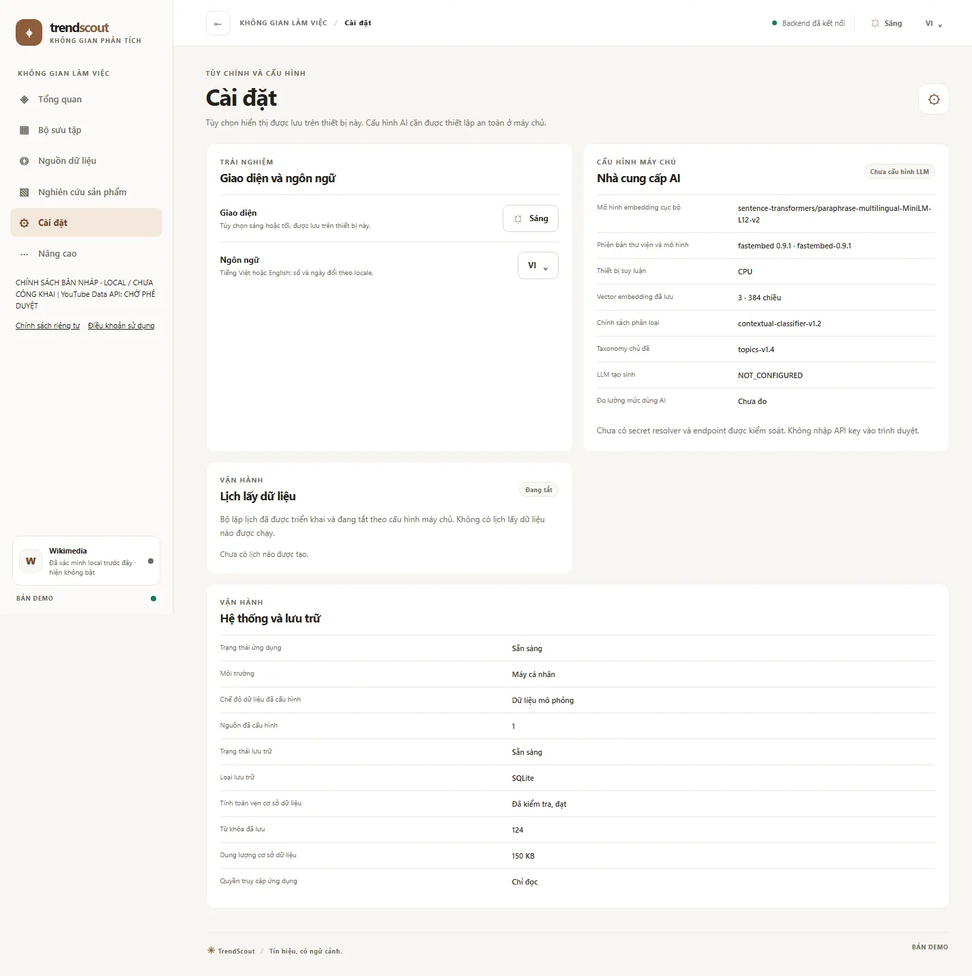
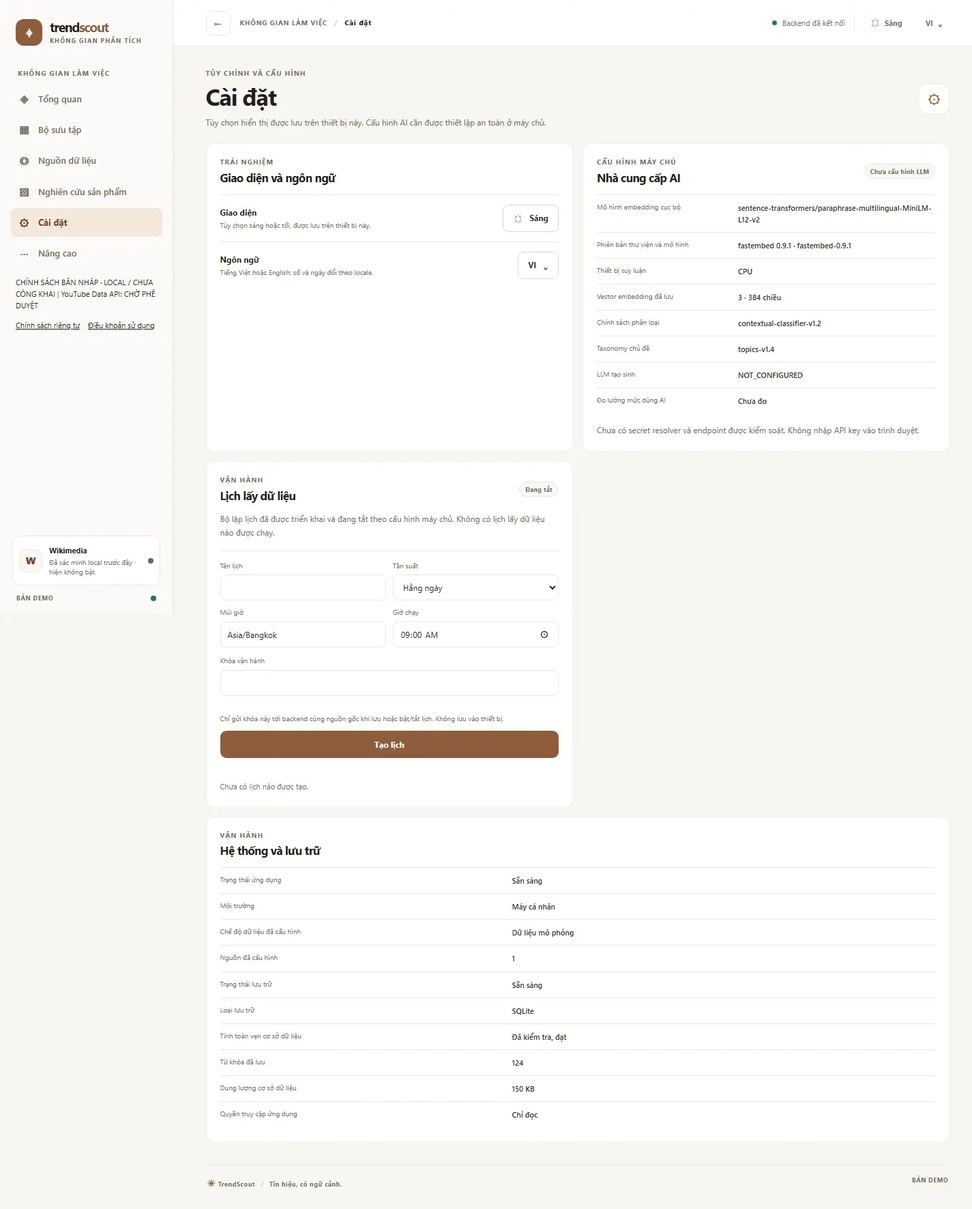
feat(settings): manage protected local fetch schedules

diff --git a/Frontend/public/app.js b/Frontend/public/app.js
@@ -57,6 +57,7 @@ const state = {
   sourceLibrary: [],
   researchKeywords: [],
 };
+let schedulerListSequence = 0;
 state.query = new URLSearchParams(window.location.search).get('q') || '';
 
 function number(value) {
@@ -606,11 +607,16 @@ async function loadRuntimeStatus() {
 
 async function loadSchedulerList() {
   const root=$('#settings-schedules'); if(!root)return;
+  const sequence=++schedulerListSequence;
   root.replaceChildren();
   try {
     const data=await getJson('/api/v1/scheduler');
-    if(!data.items?.length){root.append(element('li',t('settings.scheduler-no-items'),'schedule-empty'));return;}
-    for(const item of data.items){
+    if(sequence!==schedulerListSequence)return;
+    const form=$('#settings-schedule-form');
+    const canToggle=Boolean(data.enabled&&data.worker_running);
+    const items=Array.isArray(data.items)?data.items:[];
+    if(!items.length){root.append(element('li',t('settings.scheduler-no-items'),'schedule-empty'));}
+    for(const item of items){
       const card=element('li',null,'schedule-item');
       const heading=element('div',null,'schedule-item-heading');
       heading.append(element('strong',item.name || t('common.unavailable')),
@@ -619,16 +625,58 @@ async function loadSchedulerList() {
       const values=[
         [t('settings.schedule-frequency'),t(item.frequency==='WEEKLY'?'settings.schedule-weekly':'settings.schedule-daily')],
         [t('settings.schedule-timezone'),item.timezone],
-        [t('settings.schedule-next'),formatScheduleTime(item.next_run_at,item.timezone)],
+        [t('settings.schedule-next'),item.enabled?formatScheduleTime(item.next_run_at,item.timezone):t('settings.schedule-not-enabled')],
         [t('settings.schedule-last'),item.last_run_at?`${formatScheduleTime(item.last_run_at,item.timezone)} · ${localizedStatus('status.',item.last_status || 'UNKNOWN')}`:t('common.unavailable')],
         [t('settings.schedule-missed'),number(item.missed_runs || 0)],
       ];
       for(const [label,value] of values){const row=element('div');row.append(element('dt',label),element('dd',value));details.append(row);}
-      card.append(heading,details);root.append(card);
+      const action=element('button',t(item.enabled?'settings.schedule-disable':'settings.schedule-enable'),'button button-secondary schedule-action');
+      action.type='button';action.disabled=!canToggle;action.addEventListener('click',async()=>{
+        try{await protectedScheduleRequest(`/api/v1/scheduler/${encodeURIComponent(item.id)}`,'PATCH',{enabled:!item.enabled});await loadSchedulerList();setScheduleFeedback(t('settings.schedule-updated'));}
+        catch(error){setScheduleFeedback(error.message || t('settings.schedule-action-failed'));}
+      });
+      card.append(heading,details,action);root.append(card);
     }
+    if(items.length&&!canToggle)root.append(element('li',t(data.enabled?'settings.schedule-worker-stopped':'settings.schedule-global-off'),'schedule-empty'));
+    if(form){form.querySelector('[name="name"]').disabled=false;form.querySelector('[name="frequency"]').disabled=false;form.querySelector('[name="timezone"]').disabled=false;form.querySelector('[name="time"]').disabled=false;}
   } catch {
+    if(sequence!==schedulerListSequence)return;
     root.append(element('li',t('settings.scheduler-list-unavailable'),'schedule-empty'));
   }
+}
+
+function setScheduleFeedback(message){const target=$('#settings-schedule-feedback');if(target)target.textContent=message;}
+
+async function protectedScheduleRequest(path,method,body){
+  const form=$('#settings-schedule-form');
+  const key=form?.elements.namedItem('operator-key');
+  const token=key?.value.trim()||'';
+  if(token.length<24){setScheduleFeedback(t('settings.schedule-key-required'));key?.focus();throw new Error(t('settings.schedule-key-required'));}
+  try{
+    return await requestJson(path,{method,body,locale:getLocale(),headers:{Authorization:`Bearer ${token}`}});
+  }catch(error){
+    if(error.status===401){setScheduleFeedback(t('settings.schedule-auth-failed'));throw new Error(t('settings.schedule-auth-failed'));}
+    throw error;
+  }finally{if(key)key.value='';}
+}
+
+function initializeScheduleForm(){
+  const form=$('#settings-schedule-form');if(!form)return;
+  const timezone=form.elements.namedItem('timezone');
+  timezone.value=Intl.DateTimeFormat().resolvedOptions().timeZone||'Asia/Ho_Chi_Minh';
+  form.addEventListener('submit',async event=>{
+    event.preventDefault();
+    if(!form.reportValidity())return;
+    const [hour,minute]=form.elements.namedItem('time').value.split(':').map(Number);
+    const body={name:form.elements.namedItem('name').value.trim(),frequency:form.elements.namedItem('frequency').value,
+      timezone:timezone.value.trim(),hour,minute};
+    try{
+      await protectedScheduleRequest('/api/v1/scheduler','POST',body);
+      form.elements.namedItem('name').value='';
+      setScheduleFeedback(t('settings.schedule-created-disabled'));
+      await loadSchedulerList();
+    }catch(error){setScheduleFeedback(error.message||t('settings.schedule-create-failed'));}
+  });
 }
 
 function formatScheduleTime(value,timezone) {
@@ -2294,6 +2342,7 @@ async function checkBackend() {
 
 initializeLocale();
 initializeTheme();
+initializeScheduleForm();
 bindEvents();
 showView(window.location.hash.slice(1));
 setMobileNav(false);

diff --git a/Frontend/public/index.html b/Frontend/public/index.html
@@ -207,7 +207,7 @@
           <div class="page-heading"><div><p class="section-kicker" data-i18n="settings.kicker"></p><h1 id="settings-heading" data-i18n="nav.settings"></h1><p data-i18n="settings.description"></p></div><span class="page-heading-mark" aria-hidden="true">⚙</span></div>
           <div class="settings-grid"><article class="panel"><div class="panel-heading"><div><p class="section-kicker" data-i18n="settings.display-kicker"></p><h2 data-i18n="settings.display-title"></h2></div></div><div class="setting-row"><div><strong data-i18n="settings.theme"></strong><small data-i18n="settings.theme-help"></small></div><button class="button button-secondary" type="button" data-theme-toggle><span class="toggle-icon" aria-hidden="true">☼</span><span data-theme-label>Light</span></button></div><div class="setting-row"><div><strong data-i18n="settings.language"></strong><small data-i18n="settings.language-help"></small></div><button class="button button-secondary" type="button" data-locale-toggle><span data-locale-label>VI</span><span class="toggle-chevron" aria-hidden="true">⌄</span></button></div></article>
           <article class="panel"><div class="panel-heading"><div><p class="section-kicker" data-i18n="settings.ai-kicker"></p><h2 data-i18n="settings.ai-title"></h2></div><span id="settings-llm-state" class="pill pill--gray" data-i18n="settings.llm-unconfigured"></span></div><dl id="settings-runtime-details" class="detail-list"><div><dt data-i18n="settings.runtime-status"></dt><dd data-i18n="common.loading"></dd></div></dl><p class="fine-print" data-i18n="settings.ai-help"></p></article>
-          <article class="panel"><div class="panel-heading"><div><p class="section-kicker" data-i18n="settings.operations-kicker"></p><h2 data-i18n="settings.scheduler-title"></h2></div><span id="settings-scheduler-status" class="pill pill--gray" data-i18n="settings.scheduler-disabled"></span></div><p id="settings-scheduler-reason" data-i18n="settings.scheduler-help"></p><ul id="settings-schedules" class="settings-schedule-list" aria-live="polite"></ul></article>
+          <article class="panel"><div class="panel-heading"><div><p class="section-kicker" data-i18n="settings.operations-kicker"></p><h2 data-i18n="settings.scheduler-title"></h2></div><span id="settings-scheduler-status" class="pill pill--gray" data-i18n="settings.scheduler-disabled"></span></div><p id="settings-scheduler-reason" data-i18n="settings.scheduler-help"></p><form id="settings-schedule-form" class="schedule-form"><div class="schedule-form-fields"><label><span data-i18n="settings.schedule-name"></span><input name="name" maxlength="80" required></label><label><span data-i18n="settings.schedule-frequency"></span><select name="frequency"><option value="DAILY" data-i18n="settings.schedule-daily"></option><option value="WEEKLY" data-i18n="settings.schedule-weekly"></option></select></label><label><span data-i18n="settings.schedule-timezone"></span><input name="timezone" maxlength="64" required></label><label><span data-i18n="settings.schedule-time"></span><input name="time" type="time" value="09:00" required></label></div><label class="schedule-token-label"><span data-i18n="settings.schedule-operator-key"></span><input name="operator-key" type="password" autocomplete="off" spellcheck="false"></label><p class="fine-print" data-i18n="settings.schedule-key-help"></p><button class="button button-primary" type="submit" data-i18n="settings.schedule-create"></button><p id="settings-schedule-feedback" role="status" aria-live="polite"></p></form><ul id="settings-schedules" class="settings-schedule-list" aria-live="polite"></ul></article>
           <article class="panel settings-operations"><div class="panel-heading"><div><p class="section-kicker" data-i18n="settings.operations-kicker"></p><h2 data-i18n="settings.system-storage-title"></h2></div></div><dl id="settings-system-details" class="detail-list"><div><dt data-i18n="settings.runtime-status"></dt><dd data-i18n="common.loading"></dd></div></dl></article></div>
         </section>
 

diff --git a/Frontend/public/styles.css b/Frontend/public/styles.css
@@ -363,6 +363,14 @@ button:disabled { cursor: not-allowed; }
 .chart-value { color: var(--ink-strong); font-size: 10px; font-variant-numeric: tabular-nums; text-align: right; }
 .chart-empty { margin: 8px 0 0; color: var(--muted); font-size: 11px; line-height: 1.55; }
 .settings-schedule-list { display: grid; gap: 9px; margin: 13px 0 0; padding: 0; list-style: none; }
+.schedule-form { display: grid; gap: 10px; margin-top: 16px; padding-top: 14px; border-top: 1px solid var(--line); }
+.schedule-form-fields { display: grid; grid-template-columns: repeat(2,minmax(0,1fr)); gap: 10px; }
+.schedule-form label { display: grid; gap: 5px; min-width: 0; color: var(--muted); font-size: 10px; }
+.schedule-form input, .schedule-form select { min-width: 0; width: 100%; min-height: 38px; padding: 8px 10px; border: 1px solid var(--line); border-radius: 8px; color: var(--ink); background: var(--surface); font: inherit; font-size: 12px; }
+.schedule-token-label { margin-top: 2px; }
+.schedule-form > .button { justify-self: start; }
+#settings-schedule-feedback { min-height: 1em; margin: 0; color: var(--accent-strong); font-size: 11px; }
+.schedule-action { min-height: 30px; padding: 5px 9px; font-size: 10px; }
 .schedule-item { padding: 12px; border: 1px solid var(--line); border-radius: 10px; background: var(--surface-soft); }
 .schedule-item-heading { display: flex; align-items: center; justify-content: space-between; gap: 10px; color: var(--ink-strong); font-size: 12px; }
 .schedule-item-details { display: grid; grid-template-columns: repeat(auto-fit, minmax(120px, 1fr)); gap: 10px; margin: 11px 0 0; }
@@ -606,6 +614,7 @@ button:disabled { cursor: not-allowed; }
   .workbench-scrim:not([hidden]) { position: fixed; z-index: 19; inset: 0; display: block; width: 100%; height: 100%; border: 0; background: #10182666; }
 }
 @media (max-width: 600px) {
+  .schedule-form-fields { grid-template-columns: 1fr; }
   .workbench-heading { flex-wrap: wrap; }
   .workbench-heading > .button { margin-left: auto; }
   .workbench-toolbar { justify-content: space-between; flex-wrap: wrap; }

diff --git a/Frontend/public/modules/i18n/vi.js b/Frontend/public/modules/i18n/vi.js
@@ -839,6 +839,22 @@ export const vi = {
   'settings.schedule-next': 'Lần chạy tiếp theo',
   'settings.schedule-last': 'Lần chạy gần nhất',
   'settings.schedule-missed': 'Lần đã bỏ lỡ',
+  'settings.schedule-name': 'Tên lịch',
+  'settings.schedule-time': 'Giờ chạy',
+  'settings.schedule-operator-key': 'Khóa vận hành',
+  'settings.schedule-key-help': 'Chỉ gửi khóa này tới backend cùng nguồn gốc khi lưu hoặc bật/tắt lịch. Không lưu vào thiết bị.',
+  'settings.schedule-create': 'Tạo lịch',
+  'settings.schedule-created-disabled': 'Đã tạo lịch ở trạng thái tắt. Lịch chỉ chạy khi bộ lập lịch được bật trong cấu hình máy chủ.',
+  'settings.schedule-updated': 'Đã cập nhật lịch.',
+  'settings.schedule-enable': 'Bật lịch',
+  'settings.schedule-disable': 'Tắt lịch',
+  'settings.schedule-not-enabled': 'Chưa bật',
+  'settings.schedule-global-off': 'Máy chủ đang tắt bộ lập lịch; lịch sẽ không tự chạy.',
+  'settings.schedule-worker-stopped': 'Tiến trình lập lịch chưa hoạt động; kiểm tra cấu hình máy chủ trước khi bật lịch.',
+  'settings.schedule-key-required': 'Nhập khóa vận hành hợp lệ để tiếp tục.',
+  'settings.schedule-auth-failed': 'Khóa vận hành không hợp lệ hoặc không được cấu hình trên máy chủ.',
+  'settings.schedule-action-failed': 'Không cập nhật được lịch.',
+  'settings.schedule-create-failed': 'Không tạo được lịch.',
   'settings.system-storage-title': 'Hệ thống và lưu trữ',
   'settings.system-status': 'Trạng thái ứng dụng',
   'settings.system-available': 'Sẵn sàng',

diff --git a/Frontend/public/modules/i18n/en.js b/Frontend/public/modules/i18n/en.js
@@ -839,6 +839,22 @@ export const en = {
   'settings.schedule-next': 'Next run',
   'settings.schedule-last': 'Last run',
   'settings.schedule-missed': 'Missed runs',
+  'settings.schedule-name': 'Schedule name',
+  'settings.schedule-time': 'Run time',
+  'settings.schedule-operator-key': 'Operator key',
+  'settings.schedule-key-help': 'Sent only to this same-origin backend when you save or change a schedule. It is not saved on this device.',
+  'settings.schedule-create': 'Create schedule',
+  'settings.schedule-created-disabled': 'Schedule created disabled. It runs only when the scheduler is enabled in server configuration.',
+  'settings.schedule-updated': 'Schedule updated.',
+  'settings.schedule-enable': 'Enable schedule',
+  'settings.schedule-disable': 'Disable schedule',
+  'settings.schedule-not-enabled': 'Not enabled',
+  'settings.schedule-global-off': 'The scheduler is off on the server; schedules will not run automatically.',
+  'settings.schedule-worker-stopped': 'The scheduler worker is not running. Check server configuration before enabling a schedule.',
+  'settings.schedule-key-required': 'Enter a valid operator key to continue.',
+  'settings.schedule-auth-failed': 'The operator key is invalid or is not configured on the server.',
+  'settings.schedule-action-failed': 'Could not update the schedule.',
+  'settings.schedule-create-failed': 'Could not create the schedule.',
   'settings.system-storage-title': 'System and storage',
   'settings.system-status': 'Application status',
   'settings.system-available': 'Available',

diff --git a/Backend/tests/browser_d2_visual_offline.py b/Backend/tests/browser_d2_visual_offline.py
@@ -16,7 +16,9 @@ KEYWORD_ID = "c" * 64
 FAKE = r"""<script>
 window.fetch=(path,options={})=>{
   window.fetchRequests=(window.fetchRequests||[]).concat(String(path));
+  window.fetchCalls=(window.fetchCalls||[]).concat({path:String(path),method:options.method||'GET',headers:options.headers||{},body:options.body||null});
   const value=String(path).split('?')[0];
+  if(value==='/api/v1/scheduler'&&options.method==='POST')return Promise.resolve(new Response(JSON.stringify({item:{id:'f'.repeat(32),name:'Daily synthetic check',frequency:'DAILY',timezone:'Asia/Ho_Chi_Minh',hour:9,minute:0,enabled:false}}),{status:201}));
   if(value==='/api/health')return Promise.resolve(new Response(JSON.stringify({status:'ok'}),{status:200}));
   if(value==='/api/v1/capabilities')return Promise.resolve(new Response(JSON.stringify({contract_version:'1.0',environment_mode:'test',read_only:true,authentication_required:false,public_fetch_enabled:false,fetch_enabled:false,fetch_block_reason:'FEATURE_DISABLED',data_mode:'SYNTHETIC',sources:[
     {source_id:'wikimedia_pageviews_top_per_country',display_name:'Wikimedia Pageviews',icon:'W',category:'trends_search_interest',adapter_status:'IMPLEMENTED',approval_status:'PENDING_LIVE_APPROVAL',configuration_status:'NOT_REQUIRED',local_live_verification_status:'LOCAL_LIVE_VERIFIED',production_readiness:'NOT_PRODUCTION_READY',enabled_for_current_operation:false,last_saved_fetch:{status:'PARTIAL',data_mode:'SYNTHETIC',record_count:4,fetched_at:'2026-11-11T03:00:00Z',observation_start:'2026-11-10',observation_end:'2026-11-10'},metric:{name:'views_ceil',unit:'approx_pageviews_upper_bound',meaning:'Approximate pageviews in a censored source sample'},market_scope:'US country scoped top list',documentation_url:'https://doc.wikimedia.org/generated-data-platform/aqs/'},
@@ -146,6 +148,14 @@ window.waitFor=async function(p){for(let n=0;n<100;n++){if(p())return true;await
             details = evaluate("document.querySelector('#settings-system-details').textContent")
             if not all(label in details for label in ("SQLite", "Máy cá nhân", "Đã kiểm tra, đạt")):
                 raise RuntimeError("localized system and storage status values were not shown")
+            evaluate("document.querySelector('#settings-schedule-form').elements.namedItem('name').value='Daily synthetic check';document.querySelector('#settings-schedule-form').elements.namedItem('operator-key').value='offline-scheduler-key-0123456789';document.querySelector('#settings-schedule-form').requestSubmit()")
+            if not evaluate("window.waitFor(()=>window.fetchCalls.some(call=>call.path==='/api/v1/scheduler'&&call.method==='POST'))", await_promise=True):
+                raise RuntimeError("scheduler create control did not call the protected same-origin API")
+            if not evaluate("window.fetchCalls.find(call=>call.path==='/api/v1/scheduler'&&call.method==='POST')?.headers?.Authorization==='Bearer offline-scheduler-key-0123456789'&&document.querySelector('#settings-schedule-form').elements.namedItem('operator-key').value===''&&!localStorage.length&&!sessionStorage.length"):
+                raise RuntimeError("scheduler operator key was not transient or was not sent to the protected endpoint")
+            if not evaluate("document.querySelector('#settings-schedule-feedback').textContent.includes('Đã tạo lịch ở trạng thái tắt')"):
+                raise RuntimeError("scheduler create did not explain that the new schedule remains disabled")
+            evaluate("document.querySelector('#settings-schedule-feedback').textContent=''")
             evaluate("document.querySelector('#dashboard-overview-tab').click()")
 
             def set_viewport(width, height=900):

diff --git a/Backend/tests/test_d2_dashboard_contract.py b/Backend/tests/test_d2_dashboard_contract.py
@@ -93,8 +93,9 @@ class D2DashboardContractTests(unittest.TestCase):
             for path in (PUBLIC / "app.js", *sorted((PUBLIC / "modules").rglob("*.js")))
         )
         self.assertNotRegex(html.lower(), r"\b(login|logout|register)\b")
-        self.assertNotIn('type="password"', html.lower())
-        self.assertNotIn("Authorization", source)
+        self.assertIn('id="settings-schedule-form"', html)
+        self.assertIn('type="password"', html.lower())
+        self.assertIn("Authorization", source)
         self.assertIn('id="open-fetch"', html)
         self.assertIn(
             "disabled", html[html.index('id="open-fetch"') : html.index('id="open-fetch"') + 300]
@@ -102,6 +103,8 @@ class D2DashboardContractTests(unittest.TestCase):
         self.assertIn("/api/v1/fetches", source)
         self.assertIn("Idempotency-Key", source)
         self.assertNotIn("operator-token", html + source)
+        self.assertNotIn("localStorage.setItem('scheduler", source)
+        self.assertNotIn("sessionStorage.setItem('scheduler", source)
 
     def test_discover_summary_keeps_provider_and_analysis_counts_distinct(self):
         app = (PUBLIC / "app.js").read_text(encoding="utf-8")

diff --git a/Documents/Reports/OVERNIGHT_G2_G7_FINAL_REPORT.md b/Documents/Reports/OVERNIGHT_G2_G7_FINAL_REPORT.md
@@ -21,7 +21,7 @@
 | G4 - Dashboard and analytics | **PARTIAL** | Overview shows a persisted comparable-cohort Top 5 chart. Analysis charts saved keywords by source, algorithm-result rows by outcome, Fetch run status by source, per-source/per-day observed versus unavailable counts, and a source/date coverage heatmap; accessible source-level tables remain alongside them. Algorithm effectiveness is explicitly `NOT_YET_EVALUATED`, with a localized explanation rather than a fabricated score. | Counts are record/run counts, not demand, audience or accuracy. One-source coverage cannot establish cross-source overlap; filters remain disabled until compatible windows and measures exist. |
 | G5 — Run History | **PARTIAL** | Search/status/mode filtering, pagination and details read persistent SQLite `fetch_jobs`, stored snapshots and the AnalysisStorage run ledger. A bounded registry contract returns up to 100 newest manual runs; a truncated-history flag is returned at the cap. The UI shows recorded duration or “not recorded”, localizes run type/source/status/mode and known partial/failure explanations, and adds column labels to mobile rows. Offline fake and Firestore-stub contracts plus API tests pass. | Firestore emulator integration remains unverified in this environment; older-than-100 manual runs are not included in the merged search window. |
 | G6 — algorithms and Data Quality | **PASS for the evaluated local snapshot; cross-product review partial** | API reports the actual 12-method registry. Persisted ledger has 154 observations and 1,848 keyword/algorithm results (154 × 12); incompatible methods are skipped with reasons. No effectiveness winner is selected without comparable labeled history. UI localizes names, statuses and reasons and exposes result/evidence detail. | The current single censored Wikimedia snapshot supports descriptive within-snapshot ranking only. It cannot validate growth, persistence, change points or algorithm effectiveness. Full keyboard/accessibility review of every detail state remains outstanding. |
-| G7 - Product Research, AI settings and Scheduler | **PARTIAL** | Product Research persists researcher-entered hypotheses and evidence. AI Settings reports FastEmbed/LLM state plus the current environment, configured mode/source count, SQLite integrity, saved-keyword count and database size. Scheduler schedules and occurrences persist in private SQLite. Operator APIs list/create/enable/disable schedules; timezone/frequency, transactional leases, stable occurrence/run IDs, missed-run skipping, recovery and safe shutdown have offline/mock coverage. | Scheduler defaults off and rejects LIVE/cloud/remote configurations; no unattended Fetch ran. The UI displays schedules and operational state but has no schedule creation/edit controls. Product research does not independently discover competitors or validate commercial demand. |
+| G7 - Product Research, AI settings and Scheduler | **PARTIAL** | Product Research persists researcher-entered hypotheses and evidence. AI Settings reports FastEmbed/LLM state plus the current environment, configured mode/source count, SQLite integrity, saved-keyword count and database size. Scheduler schedules and occurrences persist in private SQLite. Operator APIs list/create/enable/disable schedules; timezone/frequency, transactional leases, stable occurrence/run IDs, missed-run skipping, recovery and safe shutdown have offline/mock coverage. | Scheduler defaults off and rejects LIVE/cloud/remote configurations; no unattended Fetch ran. Settings now creates schedules disabled by default and allows per-schedule enable/disable with a transient operator key. The key is sent only to same-origin protected routes and cleared after each action; when the server scheduler is off or its worker is stopped, enable controls stay unavailable. Product research does not independently discover competitors or validate commercial demand. |
 
 ## G2 classification and persisted data
 
@@ -84,14 +84,14 @@ The taxonomy retained stable IDs and added evidenced leaves for settlements, mon
 - Full backend suite from `Backend/`: **773 passed, 767 subtests passed**. The Firestore emulator integration path was also explicitly attempted with a temporary, checksum-verified Microsoft OpenJDK 21 and Firebase CLI 15.36.0 outside the repo and the official emulator on loopback. Its first guarded test failed before client creation because `create_guarded_emulator_client` requires an isolated Linux network namespace and `/proc/net/*`; native Windows has no `/proc`, and no WSL distribution or `bwrap` is available. The emulator was stopped. The safety guard was not bypassed, and no Firestore production endpoint was contacted. The two demo discovery failures from the preceding run are fixed and now pass.
 - Native Chrome offline workspace: passed at 320, 390, 768, 1024, 1440 and 1920 px for locale/theme persistence, all views, read-only API access and XSS handling. The Collection merge picker passed keyboard selection, review-step handoff and Escape dismissal in Vietnamese/English and light/dark in the isolated fixture. The mobile navigation drawer also passed open/focus/Escape/focus-return checks. No merge was committed and no Fetch occurred.
 - Fresh overview screenshots: 24 combinations at six widths, Vietnamese/English and light/dark are in `Documents/Reports/windows-evidence/overnight-g2-g7/`. Screenshots use an isolated synthetic browser fixture. Five earlier G2 evidence images are also retained in that directory.
-- Offline Chrome visual/workspace checks passed at **320, 390, 768, 1024, 1440 and 1920 px**. Overview evidence covers VI/EN and light/dark; fresh VI/light screenshots now cover Analysis, Collections, Sources, Run History, Algorithms, Quality, Product Research and Settings at 390 and 1440 px. Run History and Analysis mobile tables show localized column names and do not cause document-level horizontal overflow. The collapsed Collection parent-count case is covered by an offline Chrome fixture with saved child keywords. Workspace checks cover locale/theme persistence, read-only API behavior and XSS fixtures. Offline browser checks exercise the Analysis charts, Settings scheduler empty state, and localized system/storage status. These use synthetic/offline fixtures, not provider Fetch.
+- Offline Chrome visual/workspace checks passed at **320, 390, 768, 1024, 1440 and 1920 px**. Overview evidence covers VI/EN and light/dark; fresh VI/light screenshots now cover Analysis, Collections, Sources, Run History, Algorithms, Quality, Product Research and Settings at 390 and 1440 px. Run History and Analysis mobile tables show localized column names and do not cause document-level horizontal overflow. The collapsed Collection parent-count case is covered by an offline Chrome fixture with saved child keywords. Workspace checks cover locale/theme persistence, read-only API behavior and XSS fixtures. Offline browser checks exercise the Analysis charts, Settings scheduler creation through a mocked operator-authenticated same-origin request, and localized system/storage status. The operator key is not saved to local or session storage and is cleared from the form after submission. These use synthetic/offline fixtures, not provider Fetch.
 - `node --check` passed for `Frontend/public/app.js` and `Frontend/public/modules/capabilities.js`; Python compilation passed for changed backend modules; `git diff --check` passed (Git emitted only line-ending normalization warnings).
 - Reviewed Lucian UX/UI Prompt's light/dark, keyboard/touch and reduced-motion guidance and its catalog. Applied the #031 custom listbox pattern to the Collection merge destination: clear selected state, themed popup, keyboard arrows/Home/End/Enter/Escape/typeahead, outside-click dismissal and no native blue highlight. The existing Overview segmented tabs remain unchanged. The implementation is adapted to the project's theme tokens and Collection data; no dependency was added. [Lucian UX/UI Prompt](https://lucianlabs.dev/en/uxui-prompt/introducing/), [catalog entry #031](https://github.com/Seokwoooo/lucian-uxui-prompt/blob/main/api/v1/en/e/031.txt).
 - Fresh screenshots cover all eight major user views at 390 and 1440 px in VI/light; Overview also covers all six widths in VI/EN and light/dark. Other views do not yet have screenshot coverage for every width/theme combination. Keyboard-only workflows beyond the Collection merge picker, complete modal/mobile-drawer journeys and a server restart acceptance pass remain incomplete.
 
 ## Remaining gates
 
-1. Add frontend schedule creation/edit controls or explicitly accept the current operator API workflow. Scheduler is currently default-disabled and synthetic-only; no scheduled Fetch ran during this goal.
+1. The server scheduler remains default-disabled and synthetic-only; enabling it requires a deliberate server configuration change and no scheduled Fetch ran during this goal. Schedule timing cannot be edited after creation.
 2. Keep algorithm effectiveness in its honest unvalidated state until comparable labeled evidence exists; add source overlap comparisons only after a second compatible source is available.
 3. Provide a supported read-only interface to list Firestore-backed manual runs or clearly accept the local-ledger-only scope.
 4. Finish native Chrome keyboard, mobile drawer, modal, pagination, reload and server-restart journeys; capture fresh evidence for every G2–G7 screen and both locales/themes.
